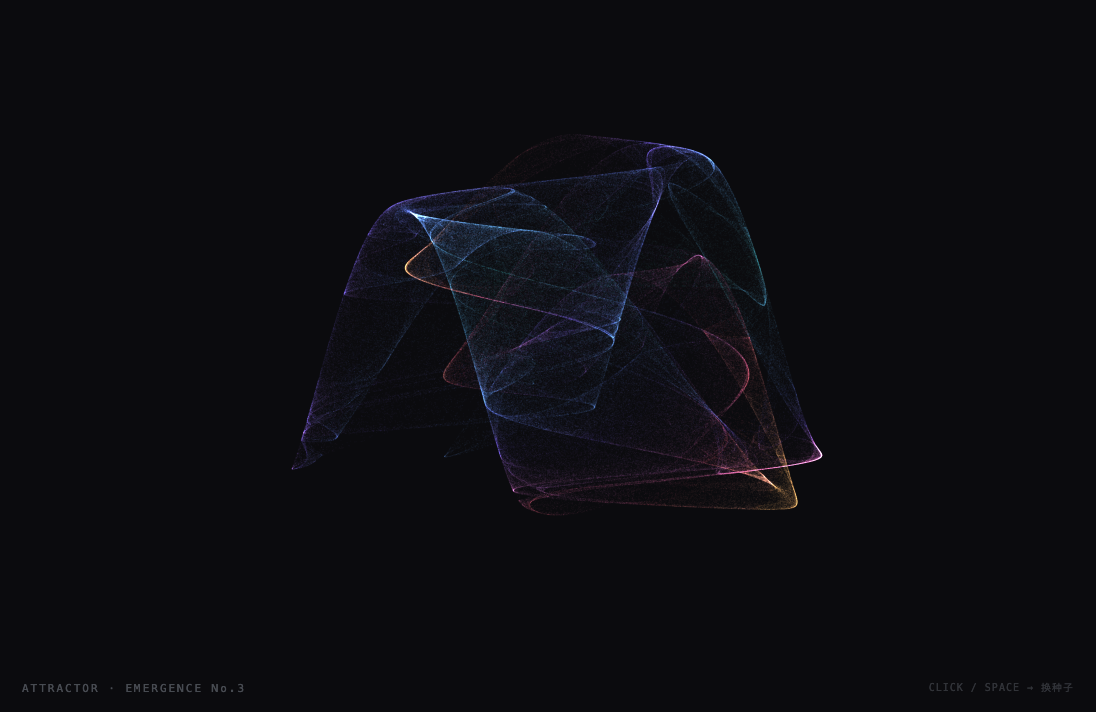
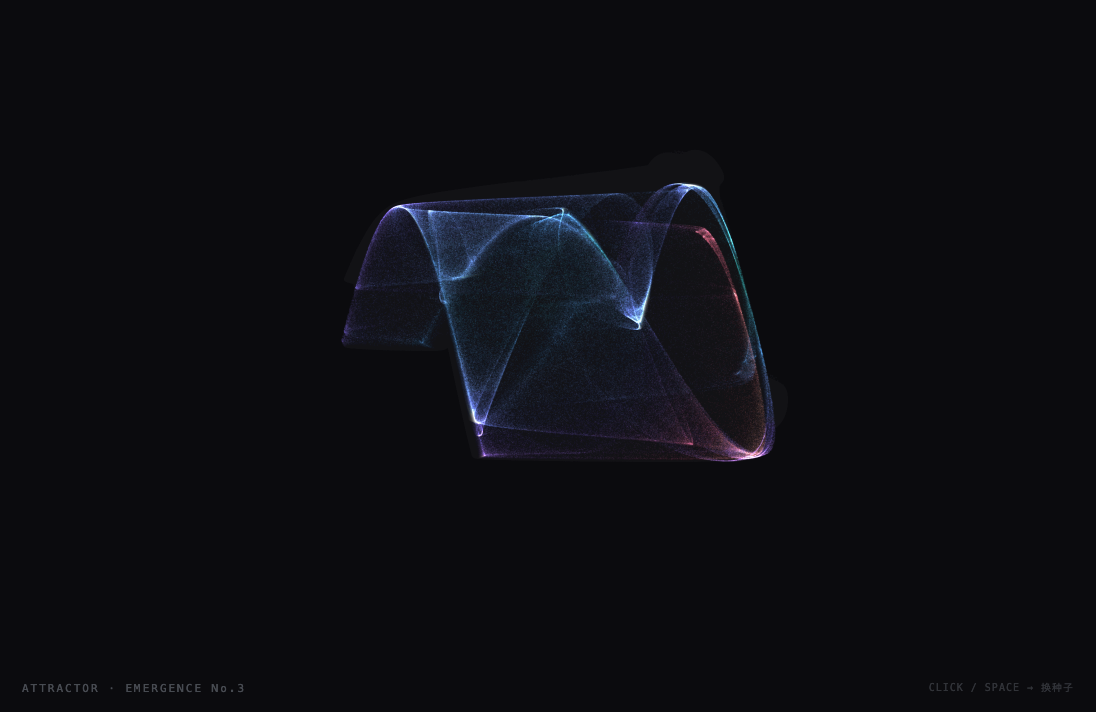
feat: animate No.2 architecture and No.3 attractor
No.2: tower heights driven by time-evolving Perlin noise (slow undulation),
re-centered each frame. No.3: de Jong params drift around a non-degenerate
base with trail persistence, so the filaments flow without collapsing.

Changed region(s): [[0.3102, 0.1854, 0.7445, 0.7416], [0.2792, 0.5253, 0.3102, 0.618]]

diff --git a/03-attractor.html b/03-attractor.html
@@ -28,7 +28,10 @@
 <script>
 let SEED = 42;
 const STOPS = ['#2ec5b6', '#5bb0ff', '#7b6cff', '#ff6b8a', '#ffb36b'];
-const N = 340000;   // 点数
+const N = 26000;   // 每帧点数（拖尾累积 → 总密度更高）
+
+// 动画状态：基准参数 + 持续迭代点
+let base = null, px = 0.1, py = 0.1;
 
 let RAMP = [];
 function rampColor(t) {
@@ -38,19 +41,18 @@ function rampColor(t) {
   return lerpColor(RAMP[i], RAMP[i + 1], seg - i);
 }
 
-function setup() { createCanvas(windowWidth, windowHeight); pixelDensity(2); noLoop(); redraw(); }
-function windowResized() { resizeCanvas(windowWidth, windowHeight); redraw(); }
-function keyPressed() { if (key === ' ') { SEED = floor(random(99999)); redraw(); } }
-function mousePressed() { SEED = floor(random(99999)); redraw(); }
+function setup() { createCanvas(windowWidth, windowHeight); pixelDensity(2); frameRate(30); reset(); }
+function windowResized() { resizeCanvas(windowWidth, windowHeight); background(11, 11, 14); }
+function keyPressed() { if (key === ' ') reset(true); }
+function mousePressed() { reset(true); }
 
-function draw() {
+// 选一组非退化基准参数（每种子一套），重置画布与迭代点
+function reset(reroll) {
+  if (reroll) SEED = floor(random(99999));
   randomSeed(SEED);
-  background(11, 11, 14);
-
-  // de Jong 吸引子：4 个参数定形态。自动排除"坍缩成一点"的退化解
   let a, b, c, d, tries = 0;
   while (tries < 40) {
-    a = random(-3, 3); b = random(-3, 3); c = random(-3, 3); d = random(-3, 3);
+    a = random(-2.6, 2.6); b = random(-2.6, 2.6); c = random(-2.6, 2.6); d = random(-2.6, 2.6);
     let tx = 0.1, ty = 0.1, minx = 1e9, maxx = -1e9, miny = 1e9, maxy = -1e9;
     for (let i = 0; i < 1600; i++) {
       const nx = Math.sin(a * ty) - Math.cos(b * tx);
@@ -64,28 +66,42 @@ function draw() {
     tries++;
     if ((maxx - minx) > 1.3 && (maxy - miny) > 1.3) break;   // 够展开 → 用它
   }
+  base = { a, b, c, d };
+  px = random(-1, 1); py = random(-1, 1);
+  background(11, 11, 14);
+}
+
+function draw() {
+  // 拖尾：每帧用半透明底色轻擦上一帧 → 流动残影 + 密度累积
+  blendMode(BLEND);
+  noStroke();
+  fill(11, 11, 14, 18);
+  rect(0, 0, width, height);
+
+  // 参数绕基准小幅漂移（贴着非退化基准走，避免坍缩成细线）→ 丝缦缓慢流动
+  const t = frameCount * 0.01;
+  const a = base.a + Math.sin(t * 0.70) * 0.18;
+  const b = base.b + Math.cos(t * 0.53) * 0.18;
+  const c = base.c + Math.sin(t * 0.31) * 0.18;
+  const d = base.d + Math.cos(t * 0.87) * 0.18;
+
   const scale = min(width, height) * 0.21;
   const cx = width / 2, cy = height / 2;
 
-  let x = random(-1, 1), y = random(-1, 1);
-  for (let i = 0; i < 1000; i++) {   // 预热，跳过初始瞬态
-    const nx = Math.sin(a * y) - Math.cos(b * x);
-    const ny = Math.sin(c * x) - Math.cos(d * y);
-    x = nx; y = ny;
-  }
-
   blendMode(ADD);
   strokeWeight(1.0);
+  let x = px, y = py;
   for (let i = 0; i < N; i++) {
     const nx = Math.sin(a * y) - Math.cos(b * x);
     const ny = Math.sin(c * x) - Math.cos(d * y);
     const speed = Math.hypot(nx - x, ny - y);   // 移动速度 → 上色
     x = nx; y = ny;
     const col = rampColor(constrain(speed / 3.2, 0, 1));
-    stroke(red(col), green(col), blue(col), 10);
+    stroke(red(col), green(col), blue(col), 12);
     point(cx + x * scale, cy + y * scale);
   }
   blendMode(BLEND);
+  px = x; py = y;   // 保留迭代状态供下一帧续算
 }
 </script>
 </body>

diff --git a/02-architecture.html b/02-architecture.html
@@ -38,7 +38,7 @@ function rampColor(t) {
   return lerpColor(RAMP[i], RAMP[i + 1], seg - i);
 }
 
-function setup() { createCanvas(windowWidth, windowHeight); pixelDensity(2); noLoop(); redraw(); }
+function setup() { createCanvas(windowWidth, windowHeight); pixelDensity(2); frameRate(30); }
 function windowResized() { resizeCanvas(windowWidth, windowHeight); redraw(); }
 function keyPressed() { if (key === ' ') { SEED = floor(random(99999)); redraw(); } }
 function mousePressed() { SEED = floor(random(99999)); redraw(); }
@@ -59,7 +59,7 @@ function draw() {
   const cells = [];
   for (let gx = 0; gx < GRID; gx++) for (let gy = 0; gy < GRID; gy++) {
     const nx = gx - half, ny = gy - half;
-    let h = pow(noise(gx * 0.22, gy * 0.22), 1.5) * maxH;
+    let h = pow(noise(gx * 0.22, gy * 0.22, frameCount * 0.012), 1.5) * maxH;
     const dist = Math.sqrt(nx * nx + ny * ny) / half;
     h *= constrain(1.2 - dist * 0.6, 0, 1.2);
     cells.push({ nx, ny, h, key: gx + gy });

diff --git a/README.md b/README.md
@@ -9,8 +9,8 @@
 | # | 文件 | 算法 | 形态 | 状态 |
 |---|------|------|------|------|
 | No.1 | `01-growth.html` | 差分生长 Differential Growth | 网（线）| **实时生长**，约 50 秒长满 15000 节点 |
-| No.2 | `02-architecture.html` | 生成构造 Generative Architecture | 塔（体）| 静态单帧，等距结构塔群 |
-| No.3 | `03-attractor.html` | 奇异吸引子 de Jong Attractor | 缦（点）| 静态单帧，34 万点迭代 |
+| No.2 | `02-architecture.html` | 生成构造 Generative Architecture | 塔（体）| **实时**，塔群随时间缓慢起伏，自动垂直居中 |
+| No.3 | `03-attractor.html` | 奇异吸引子 de Jong Attractor | 缦（点）| **实时**，参数缓慢漂移使丝缦流动变形（带拖尾残影）|
 
 ## 算法简述
 
@@ -30,6 +30,6 @@ python3 -m http.server 8000
 
 ## 待办 / 可扩展
 
-- No.2、No.3 目前是静态单帧；要做成 live 系列可改：构造逐塔升起、吸引子逐点显影。
+- 三件均为实时动态（No.2 塔群起伏 / No.3 丝缦漂移 / No.1 生长）。
 - 曾试过 No.4 反应扩散（Gray-Scott），因柔边质感与系列不统一 + 计算卡顿，已弃。
 - 配色 / 密度 / 构图均可调（见各文件顶部参数注释）。
